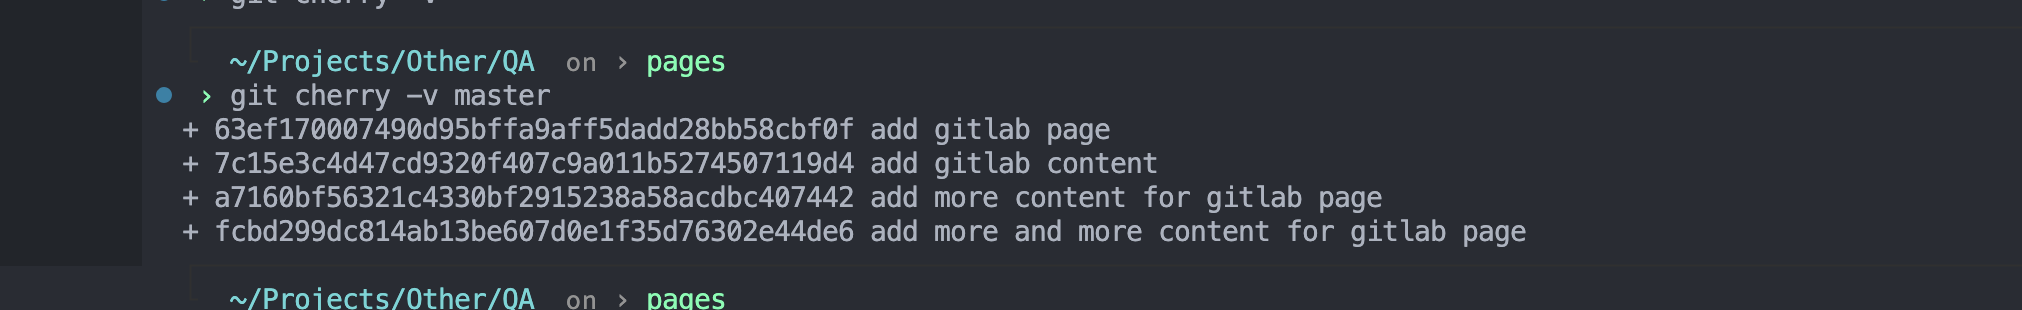
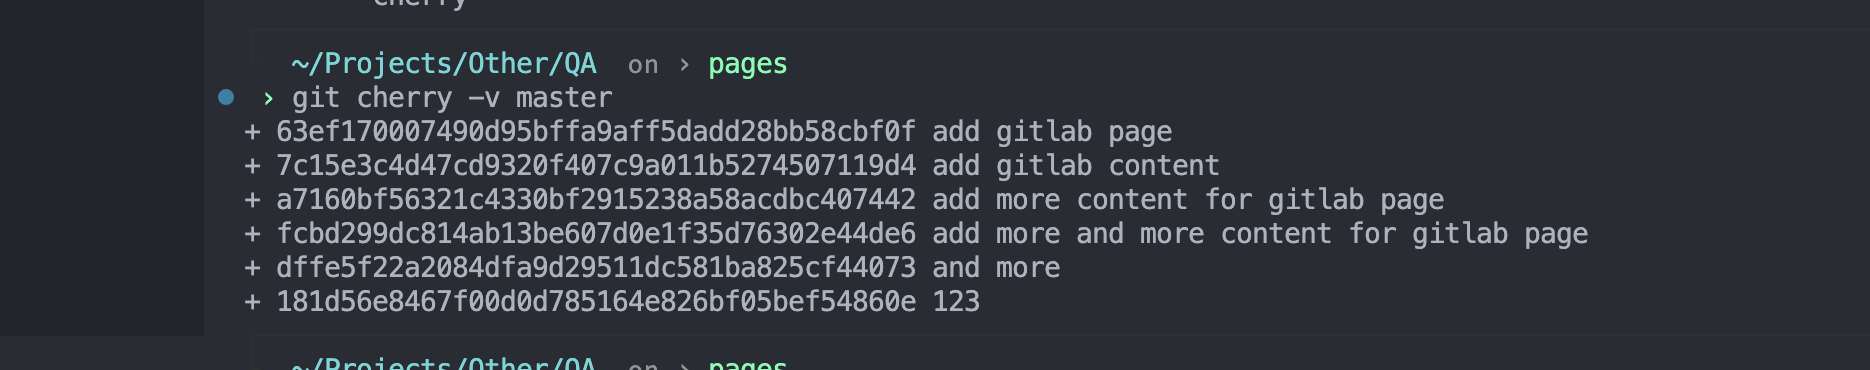
rebase and squash commits

Changed region(s): [[0.062, 0.1452, 0.8684, 0.8419], [0.093, 0.929, 0.4342, 1.0], [0.093, 0.0, 0.2481, 0.029]]

diff --git a/pages/gitlab.html b/pages/gitlab.html
@@ -44,14 +44,18 @@
 								<br>
 								<p class="text-block__p">Зачастую, наши мелкие коммиты по типу "покрасил кнопку в красный" помогают ревьюерам и теряют ценность когда необходимо вливать пулреквест. Для этого мы можем легко схлопнуть их в один целостный понятный коммит.</p>
 								<br>
-								<p class="text-block__p">Для начала, используем команду <b>git cherry -v master</b> которая покажет разницу между текущей веткой и мастером. В результате увидим 4 коммита, которые мы схлопнем в один</p>
+								<p class="text-block__p">Для начала, используем команду <b>git cherry -v master</b> которая покажет разницу между текущей веткой и мастером. В результате увидим 6 коммитов, которые мы схлопнем в один</p>
 								<br>
-								<p class="test-block__p">Перепишем историю с момента 4 коммита назад, используем команду <b>`</b> i - в данном случаем интерактивный режим.</p>
+								<p class="test-block__p">Перепишем историю с момента 6 коммитов назад, используем команду <b>git rebase -i HEAD~6</b> i - в данном случаем интерактивный режим.</p>
+								<br>
+								<p class="test-block__p">Тут видим доступные команды, но нас интересует команда <b>squash</b>, заменяем 5 строк после первой с <b>pick</b> на <b>squash</b> и сохраняемся.</p>
+								<br>
+								<p class="test-block__p">Удаляем лишние комменты, оставляем один первый.</p>
 							</div>
 
-							<img class="gallery__item" src="/assets/images/youtrack/отчет2.png" alt="Alt">
+							<img class="gallery__item" src="/assets/images/gitlab/gitint.png" alt="Alt">
 		
-							<img class="gallery__item" src="../assets/images/youtrack/intmat1.png" alt="Alt">
+							<img class="gallery__item" src="../assets/images/gitlab/squashpush.png" alt="Alt">
 
 							<video width="1080" height="760" controls>
 								<source src='../assets/video/You3.mov' type="video/mp4">
@@ -63,6 +67,7 @@
 							</div>
 		
 						</div>
+
 
 						<div data-speed="1.1" class="gallery__right">
 		
@@ -87,23 +92,29 @@
 
 							<img class="gallery__item" src="../assets/images/gitlab/gitcommits.png"Alt">
 
-							<video width="1080" height="760" controls>
-								<source src='../assets/video/Отчет.mov' type="video/mp4">
-							</video>
+							<img class="gallery__item" src="../assets/images/gitlab/gitcomments.png"Alt">
+
+
 
 							<div class="text-block gallery__item">
-								<h2 class="text-block__h">Интеграция Mattermost - GitLab</h2>
+								<p class="text-block__p">Попробуем запушить (<b>git push</b>) изменения в ветку. Но сейчас это не удастся. </p>
 								<br>
-								<p class="text-block__p">Чтобы реализовать систему уведомления в канал Mattermost необходимо знать специальный ключ канала - webhook. Прописав его в репозитории в области интеграции получаем рабочие уведомления в рабочий канал.</p>
+								<p class="text-block__p">Это потому, что ваша локальная ветка и ветка на сервере отличаются. Причём не просто в локальной ветке есть некоторые коммиты, которых нет на сервере, но и старых коммитов нет. Ведь теперь один новый коммит вместо всех прежних. Чтобы запушить на сервер все изменения, несмотря на конфликт, запустим пуш с флагом --force: <b>git push --force</b></p>
+								<br>
+								<p class="test-block__p">И посмотреть список коммитов</p>
 							</div>
 
 
-							<img class="gallery__item" src="../assets/images/youtrack/ytnot.png" alt="Alt">
+							<img class="gallery__item" src="../assets/images/gitlab/squashresult.png" alt="Alt">
 
 							<div class="text-block gallery__item">
-								<h2 class="text-block__h">Интеграция YouTrack - GitLab</h2>
+								<h2 class="text-block__h">Cherry pick</h2>
 								<br>
-								<p class="text-block__p">Для быстрого нахождения интересующей ветки разработки в системе GitLab по задаче из YouTrack была реализована интеграция</p>
+								<p class="text-block__p"><b>git cherry-pick</b> — это полезная команда, с помощью которой можно выборочно применить коммиты Git к текущей рабочей ветке HEAD</p>
+								<br>
+								<p class="text-block__p">Применима в командной разработке, когда новая функция продукта включает компоненты серверной и клиентской части, две составляющие продукта используют общий код или когда разработчик серверной части создает структуру данных, которую нужно будет использовать и в клиентской части. При этом разработчик клиентской части может с помощью команды git cherry-pick выбрать коммит, в котором условная структура данных была создана. Таким образом, он сможет продолжить работу над своими проектными задачами.</p>
+								<br>
+								<p class="text-block__p">Или, при исправлениие багов. В ходе работы обнаруживается существующий баг, и разработчик создает специальный коммит для его исправления. Этот коммит можно перенести прямо в основную ветку (main), чтобы исправить баг, прежде чем от него пострадают другие пользователи.</p>
 								<br>
 								<p class="text-block__p"></p>
 							</div>
